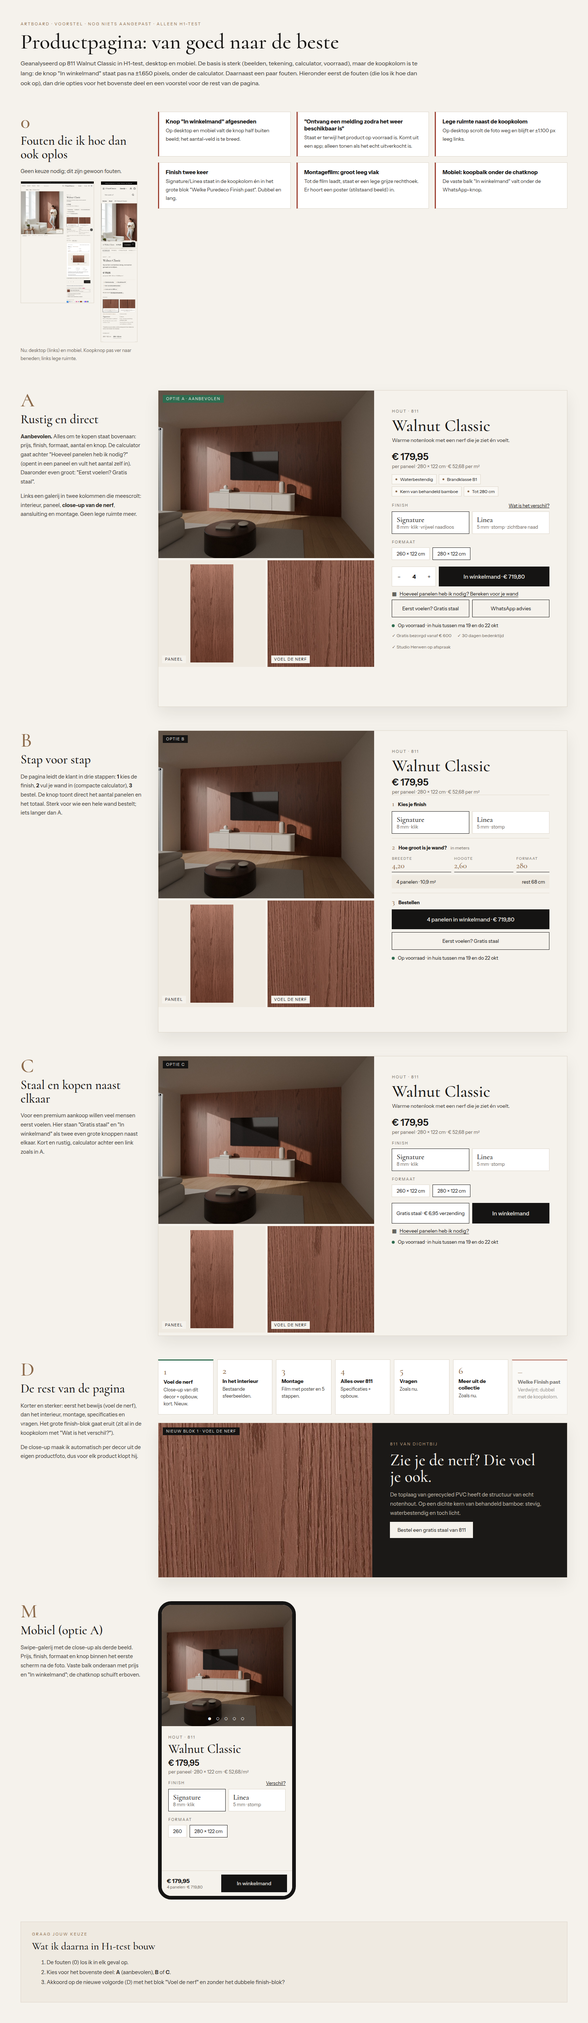
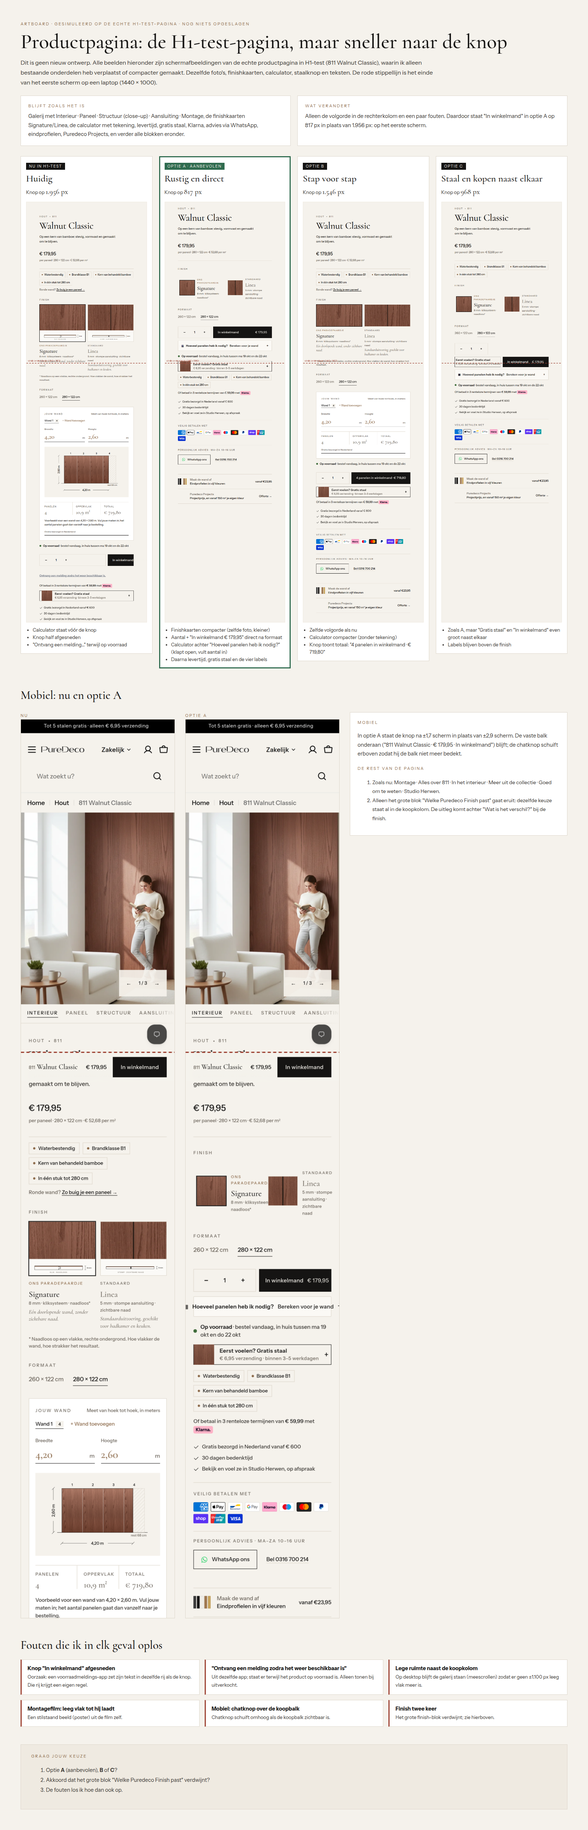
Artboard Productpagina v2 opnieuw: gesimuleerd op de echte H1-test-pagina (nu, A, B, C, mobiel)
Claude-Session: https://claude.ai/code/session_01Tr9HDAqx5rbsuHBhnEqEEG

diff --git a/docs/ontwerp-puredeco-finish/ProductpaginaV2.html b/docs/ontwerp-puredeco-finish/ProductpaginaV2.html
@@ -4,168 +4,62 @@
 *{box-sizing:border-box}body{margin:0;background:#DCD5CA;font-family:'Instrument Sans',Arial,sans-serif;color:#151413}
 .board{width:1600px;margin:0 auto;padding:56px;background:#F5F2EC}
 .k{font-size:11px;letter-spacing:.22em;text-transform:uppercase;color:#8C6A4A;margin:0}
-h1{font-family:Cormorant,Georgia,serif;font-weight:500;font-size:58px;line-height:1;margin:10px 0 0}
-h2{font-family:Cormorant,Georgia,serif;font-weight:500;font-size:34px;line-height:1.08;margin:8px 0 10px}
+h1{font-family:Cormorant,Georgia,serif;font-weight:500;font-size:56px;line-height:1;margin:10px 0 0}
+h2{font-family:Cormorant,Georgia,serif;font-weight:500;font-size:32px;line-height:1.08;margin:6px 0 8px}
 p,li{font-size:14.5px;line-height:1.7;color:#3A3733}
-.s{font-family:Cormorant,Georgia,serif;font-weight:500}
-.sec{margin-top:64px;display:grid;grid-template-columns:330px 1fr;gap:44px;align-items:start}
-.num{font-family:Cormorant,Georgia,serif;font-size:54px;color:#8C6A4A;line-height:1}
-.frame{background:#F5F2EC;border:1px solid #DDD6CA;box-shadow:0 18px 40px rgba(21,20,19,.08);position:relative;overflow:hidden}
-.tag{position:absolute;top:12px;left:12px;background:#151413;color:#F5F2EC;font-size:10.5px;letter-spacing:.14em;text-transform:uppercase;padding:4px 9px;z-index:3}
-.tag.rec{background:#2F6B4F}
-.bugs{display:grid;grid-template-columns:repeat(3,1fr);gap:16px}
-.bug{background:#fff;border:1px solid #DDD6CA;border-left:3px solid #9B3D2E;padding:16px 18px}
-.bug b{display:block;font-size:15px;margin-bottom:4px}.bug p{margin:0;font-size:13.5px}
-.now{display:flex;gap:18px;align-items:flex-start}.now img{border:1px solid #DDD6CA;display:block}
-.now .note{font-size:13px;color:#6E675E;max-width:260px}
-/* pdp mock */
-.pdp{display:grid;grid-template-columns:1.12fr 1fr;min-height:860px;background:#F5F2EC}
-.gal{display:grid;grid-template-columns:1fr 1fr;gap:6px;align-content:start;padding:0}
-.gal .big{grid-column:1/-1;aspect-ratio:4/3.1;background:url('../visualisaties/woonkamer.jpg') 38% center/cover}
-.gal .t{aspect-ratio:1/1;position:relative;background:#E9E3D8}
-.gal .t span{position:absolute;left:10px;bottom:10px;background:#F5F2EC;font-size:10.5px;letter-spacing:.12em;text-transform:uppercase;padding:4px 8px}
-.t.panel{background:#EFEAE1 url('pdp2/paneel-811.jpg') center/auto 92% no-repeat}
-.t.close{background:url('waarom/close-811.jpg') center/cover}
-.buy{padding:44px 48px 30px}
-.buy .k2{font-size:11px;letter-spacing:.2em;text-transform:uppercase;color:#6E675E}
-.buy h3{font-family:Cormorant,Georgia,serif;font-weight:500;font-size:46px;line-height:1;margin:8px 0 6px}
-.buy .sub{font-size:14px;color:#3A3733;margin:0 0 16px}
-.price{font-size:26px;font-weight:600}.price small{display:block;font-size:13px;font-weight:400;color:#6E675E;margin-top:2px}
-.chips{display:flex;flex-wrap:wrap;gap:6px;margin:14px 0 18px}.chips span{border:1px solid #DDD6CA;background:#FBF9F5;padding:5px 9px;font-size:12px}
-.chips span:before{content:'';display:inline-block;width:5px;height:5px;border-radius:50%;background:#8C6A4A;margin-right:7px;vertical-align:2px}
-.lbl{font-size:10.5px;letter-spacing:.18em;text-transform:uppercase;color:#6E675E;margin:16px 0 8px;display:flex;justify-content:space-between}
-.lbl a{letter-spacing:0;text-transform:none;font-size:12.5px;color:#151413;text-decoration:underline}
-.fin{display:grid;grid-template-columns:1fr 1fr;gap:8px}
-.fin div{border:1px solid #DDD6CA;padding:10px 12px;background:#fff;font-size:12.5px;color:#6E675E}
-.fin div b{display:block;font-family:Cormorant,Georgia,serif;font-weight:500;font-size:20px;color:#151413}
-.fin div.on{border:1.5px solid #151413}
-.pills{display:flex;gap:8px}.pills span{border:1px solid #DDD6CA;padding:8px 12px;font-size:13px;background:#fff}.pills span.on{border:1.5px solid #151413}
-.cta{display:grid;grid-template-columns:120px 1fr;gap:8px;margin-top:18px}
-.qty{border:1px solid #DDD6CA;display:flex;align-items:center;justify-content:space-between;padding:0 14px;height:54px;font-size:15px;background:#fff}
-.atc{background:#151413;color:#F5F2EC;height:54px;display:flex;align-items:center;justify-content:center;font-size:15px;font-weight:500}
-.atc.wide{grid-column:1/-1}
-.sec2{display:grid;grid-template-columns:1fr 1fr;gap:8px;margin-top:8px}
-.ghost{border:1px solid #151413;height:48px;display:flex;align-items:center;justify-content:center;font-size:13.5px;gap:8px;background:#F5F2EC}
-.calc{font-size:13.5px;margin-top:12px;display:flex;align-items:center;gap:8px}.calc u{text-underline-offset:3px}
-.stock{font-size:13px;margin-top:14px}.stock:before{content:'';display:inline-block;width:8px;height:8px;border-radius:50%;background:#2F6B4F;margin-right:8px}
-.trust{display:flex;gap:16px;font-size:12px;color:#6E675E;margin-top:12px;flex-wrap:wrap}
-.steps{counter-reset:s;margin-top:10px}
-.step{border-top:1px solid #E2DBCF;padding:12px 0}
-.step .h{display:flex;gap:10px;align-items:baseline;font-size:13px}
-.step .h i{font-style:normal;font-family:Cormorant,Georgia,serif;font-size:20px;color:#8C6A4A}
-.mini{display:grid;grid-template-columns:1fr 1fr 90px;gap:8px;margin-top:8px}
-.mini div{border-bottom:1px solid #151413;padding:4px 0;font-family:Cormorant,Georgia,serif;font-size:22px;color:#8C6A4A}
-.mini div small{display:block;font-family:'Instrument Sans';font-size:10px;letter-spacing:.14em;text-transform:uppercase;color:#6E675E}
-.res{background:#EFEAE1;padding:10px 12px;font-size:13px;margin-top:8px;display:flex;justify-content:space-between}
-.two{display:grid;grid-template-columns:1fr 1fr;gap:8px;margin-top:16px}
-.two .atc,.two .ghost{height:56px}
-/* page order */
-.order{display:grid;grid-template-columns:repeat(7,1fr);gap:10px}
-.ob{background:#fff;border:1px solid #DDD6CA;padding:14px 14px 12px;min-height:150px}
-.ob .n{font-family:Cormorant,Georgia,serif;font-size:26px;color:#8C6A4A}
-.ob b{display:block;font-size:14px;margin:4px 0}.ob p{font-size:12.5px;margin:0;line-height:1.5}
-.ob.new{border-top:3px solid #2F6B4F}.ob.out{opacity:.55;border-top:3px solid #9B3D2E}
-.nerf{display:grid;grid-template-columns:1.1fr 1fr;background:#1B1917;color:#F5F2EC;min-height:420px}
-.nerf .img{background:url('waarom/close-811.jpg') center/cover}
-.nerf .tx{padding:48px}
-.nerf h4{font-family:Cormorant,Georgia,serif;font-weight:500;font-size:44px;line-height:1.02;margin:12px 0}
-.nerf p{color:#CFC6B8}
-/* mobile */
-.phone{width:375px;border:10px solid #151413;border-radius:36px;overflow:hidden;background:#F5F2EC;position:relative;height:812px}
-.phone .ph{height:330px;background:url('../visualisaties/woonkamer.jpg') 40% center/cover;position:relative}
-.phone .dots{position:absolute;bottom:10px;left:0;right:0;text-align:center;font-size:18px;color:#fff;letter-spacing:4px}
-.phone .b{padding:18px 18px}
-.phone h3{font-family:Cormorant,Georgia,serif;font-weight:500;font-size:34px;margin:4px 0}
-.phone .bar{position:absolute;left:0;right:0;bottom:0;background:#F5F2EC;border-top:1px solid #DDD6CA;padding:10px 14px;display:grid;grid-template-columns:1fr 1.3fr;gap:10px;align-items:center}
-.phone .bar b{font-size:16px}.phone .bar small{display:block;font-size:11px;color:#6E675E}
-.ask{margin-top:60px;padding:24px 30px;background:#EFEAE1;border:1px solid #DDD6CA}
-.ask li{font-size:14.5px;line-height:1.85}
+.lead{max-width:1150px;font-size:16px}
+.cols{display:grid;grid-template-columns:repeat(4,1fr);gap:18px;margin-top:28px;align-items:start}
+.col{background:#fff;border:1px solid #DDD6CA;padding:14px}
+.col.rec{outline:3px solid #2F6B4F;outline-offset:-3px}
+.col h3{font-family:Cormorant,Georgia,serif;font-weight:500;font-size:26px;margin:0}
+.col .y{font-size:13px;margin:4px 0 10px}.col .y b{font-size:20px;font-family:Cormorant,Georgia,serif;font-weight:500}
+.col img{display:block;width:100%;border:1px solid #EFEAE1}
+.col ul{margin:10px 0 0;padding-left:18px}.col li{font-size:13px;line-height:1.55}
+.badge{display:inline-block;font-size:10.5px;letter-spacing:.14em;text-transform:uppercase;padding:3px 8px;background:#151413;color:#F5F2EC;margin-bottom:8px}
+.badge.g{background:#2F6B4F}
+.bugs{display:grid;grid-template-columns:repeat(3,1fr);gap:14px;margin-top:22px}
+.bug{background:#fff;border:1px solid #DDD6CA;border-left:3px solid #9B3D2E;padding:14px 16px}
+.bug b{display:block;font-size:14.5px;margin-bottom:3px}.bug p{margin:0;font-size:13px}
+.row{display:grid;grid-template-columns:420px 420px 1fr;gap:28px;margin-top:28px;align-items:start}
+.row img{display:block;width:100%;border:1px solid #DDD6CA}
+.box{background:#fff;border:1px solid #DDD6CA;padding:18px 20px}
+.order li{font-size:14px;line-height:1.75}
+.keep{display:grid;grid-template-columns:1fr 1fr;gap:18px;margin-top:22px}
+.ask{margin-top:48px;padding:22px 28px;background:#EFEAE1;border:1px solid #DDD6CA}.ask li{font-size:14.5px;line-height:1.85}
 </style></head><body><div class="board">
-<p class="k">Artboard · voorstel · nog niets aangepast · alleen H1-test</p>
-<h1>Productpagina: van goed naar de beste</h1>
-<p style="max-width:1100px;font-size:16px">Geanalyseerd op 811 Walnut Classic in H1-test, desktop en mobiel. De basis is sterk (beelden, tekening, calculator, voorraad), maar de koopkolom is te lang: de knop "In winkelmand" staat pas na ±1.650 pixels, onder de calculator. Daarnaast een paar fouten. Hieronder eerst de fouten (die los ik hoe dan ook op), dan drie opties voor het bovenste deel en een voorstel voor de rest van de pagina.</p>
+<p class="k">Artboard · gesimuleerd op de echte H1-test-pagina · nog niets opgeslagen</p>
+<h1>Productpagina: de H1-test-pagina, maar sneller naar de knop</h1>
+<p class="lead">Dit is geen nieuw ontwerp. Alle beelden hieronder zijn schermafbeeldingen van de echte productpagina in H1-test (811 Walnut Classic), waarin ik alleen bestaande onderdelen heb verplaatst of compacter gemaakt. Dezelfde foto's, finishkaarten, calculator, staalknop en teksten. De rode stippellijn is het einde van het eerste scherm op een laptop (1440 × 1000).</p>
 
-<section class="sec"><div><div class="num">0</div><h2>Fouten die ik hoe dan ook oplos</h2><p>Geen keuze nodig; dit zijn gewoon fouten.</p>
- <div class="now"><img src="pdp2/nu-desktop.png" width="200"><img src="pdp2/nu-mobiel.png" width="100"></div><p class="note" style="font-size:12.5px;color:#6E675E">Nu: desktop (links) en mobiel. Koopknop pas ver naar beneden; links lege ruimte.</p></div>
- <div class="bugs">
-  <div class="bug"><b>Knop "In winkelmand" afgesneden</b><p>Op desktop en mobiel valt de knop half buiten beeld; het aantal-veld is te breed.</p></div>
-  <div class="bug"><b>"Ontvang een melding zodra het weer beschikbaar is"</b><p>Staat er terwijl het product op voorraad is. Komt uit een app; alleen tonen als het echt uitverkocht is.</p></div>
-  <div class="bug"><b>Lege ruimte naast de koopkolom</b><p>Op desktop scrolt de foto weg en blijft er ±1.100 px leeg links.</p></div>
-  <div class="bug"><b>Finish twee keer</b><p>Signature/Linea staat in de koopkolom én in het grote blok "Welke Puredeco Finish past". Dubbel en lang.</p></div>
-  <div class="bug"><b>Montagefilm: groot leeg vlak</b><p>Tot de film laadt, staat er een lege grijze rechthoek. Er hoort een poster (stilstaand beeld) in.</p></div>
-  <div class="bug"><b>Mobiel: koopbalk onder de chatknop</b><p>De vaste balk "In winkelmand" valt onder de WhatsApp-knop.</p></div>
- </div>
-</section>
+<div class="keep">
+ <div class="box"><p class="k">Blijft zoals het is</p><p style="margin:6px 0 0">Galerij met Interieur · Paneel · Structuur (close-up) · Aansluiting · Montage, de finishkaarten Signature/Linea, de calculator met tekening, levertijd, gratis staal, Klarna, advies via WhatsApp, eindprofielen, Puredeco Projects, en verder alle blokken eronder.</p></div>
+ <div class="box"><p class="k">Wat verandert</p><p style="margin:6px 0 0">Alleen de volgorde in de rechterkolom en een paar fouten. Daardoor staat "In winkelmand" in optie A op 817 px in plaats van 1.956 px: op het eerste scherm.</p></div>
+</div>
 
-<section class="sec"><div><div class="num">A</div><h2>Rustig en direct</h2><p><b>Aanbevolen.</b> Alles om te kopen staat bovenaan: prijs, finish, formaat, aantal en knop. De calculator gaat achter "Hoeveel panelen heb ik nodig?" (opent in een paneel en vult het aantal zelf in). Daaronder even groot: "Eerst voelen? Gratis staal".</p><p>Links een galerij in twee kolommen die meescrolt: interieur, paneel, <b>close-up van de nerf</b>, aansluiting en montage. Geen lege ruimte meer.</p></div>
- <div class="frame"><span class="tag rec">Optie A · aanbevolen</span><div class="pdp">
-  <div class="gal"><div class="big"></div><div class="t panel"><span>Paneel</span></div><div class="t close"><span>Voel de nerf</span></div></div>
-  <div class="buy"><span class="k2">Hout · 811</span><h3>Walnut Classic</h3><p class="sub">Warme notenlook met een nerf die je ziet én voelt.</p>
-   <div class="price">€ 179,95<small>per paneel · 280 × 122 cm · € 52,68 per m²</small></div>
-   <div class="chips"><span>Waterbestendig</span><span>Brandklasse B1</span><span>Kern van behandeld bamboe</span><span>Tot 280 cm</span></div>
-   <div class="lbl">Finish <a>Wat is het verschil?</a></div>
-   <div class="fin"><div class="on"><b>Signature</b>8 mm · klik · vrijwel naadloos</div><div><b>Linea</b>5 mm · stomp · zichtbare naad</div></div>
-   <div class="lbl">Formaat</div><div class="pills"><span>260 × 122 cm</span><span class="on">280 × 122 cm</span></div>
-   <div class="cta"><div class="qty">–<b>4</b>+</div><div class="atc">In winkelmand · € 719,80</div></div>
-   <div class="calc">▦ <u>Hoeveel panelen heb ik nodig? Bereken voor je wand</u></div>
-   <div class="sec2"><div class="ghost">Eerst voelen? Gratis staal</div><div class="ghost">WhatsApp advies</div></div>
-   <div class="stock">Op voorraad · in huis tussen ma 19 en do 22 okt</div>
-   <div class="trust"><span>✓ Gratis bezorgd vanaf € 600</span><span>✓ 30 dagen bedenktijd</span><span>✓ Studio Herwen op afspraak</span></div>
-  </div></div></div>
-</section>
+<div class="cols">
+ <div class="col"><span class="badge">Nu in H1-test</span><h3>Huidig</h3><p class="y">Knop op <b>1.956 px</b></p><img src="pdp2/col-nu.png"><ul><li>Calculator staat vóór de knop</li><li>Knop half afgesneden</li><li>"Ontvang een melding…" terwijl op voorraad</li></ul></div>
+ <div class="col rec"><span class="badge g">Optie A · aanbevolen</span><h3>Rustig en direct</h3><p class="y">Knop op <b>817 px</b></p><img src="pdp2/col-A.png"><ul><li>Finishkaarten compacter (zelfde foto, kleiner)</li><li>Aantal + "In winkelmand € 179,95" direct na formaat</li><li>Calculator achter "Hoeveel panelen heb ik nodig?" (klapt open, vult aantal in)</li><li>Daarna levertijd, gratis staal en de vier labels</li></ul></div>
+ <div class="col"><span class="badge">Optie B</span><h3>Stap voor stap</h3><p class="y">Knop op <b>1.546 px</b></p><img src="pdp2/col-B.png"><ul><li>Zelfde volgorde als nu</li><li>Calculator compacter (zonder tekening)</li><li>Knop toont totaal: "4 panelen in winkelmand · € 719,80"</li></ul></div>
+ <div class="col"><span class="badge">Optie C</span><h3>Staal en kopen naast elkaar</h3><p class="y">Knop op <b>968 px</b></p><img src="pdp2/col-C.png"><ul><li>Zoals A, maar "Gratis staal" en "In winkelmand" even groot naast elkaar</li><li>Labels blijven boven de finish</li></ul></div>
+</div>
 
-<section class="sec"><div><div class="num">B</div><h2>Stap voor stap</h2><p>De pagina leidt de klant in drie stappen: <b>1</b> kies de finish, <b>2</b> vul je wand in (compacte calculator), <b>3</b> bestel. De knop toont direct het aantal panelen en het totaal. Sterk voor wie een hele wand bestelt; iets langer dan A.</p></div>
- <div class="frame"><span class="tag">Optie B</span><div class="pdp" style="min-height:820px">
-  <div class="gal"><div class="big"></div><div class="t panel"><span>Paneel</span></div><div class="t close"><span>Voel de nerf</span></div></div>
-  <div class="buy"><span class="k2">Hout · 811</span><h3>Walnut Classic</h3>
-   <div class="price">€ 179,95<small>per paneel · 280 × 122 cm · € 52,68 per m²</small></div>
-   <div class="step"><div class="h"><i>1</i><b>Kies je finish</b></div><div class="fin" style="margin-top:8px"><div class="on"><b>Signature</b>8 mm · klik</div><div><b>Linea</b>5 mm · stomp</div></div></div>
-   <div class="step"><div class="h"><i>2</i><b>Hoe groot is je wand?</b><span style="color:#6E675E;font-size:12px">in meters</span></div>
-    <div class="mini"><div><small>Breedte</small>4,20</div><div><small>Hoogte</small>2,60</div><div><small>Formaat</small>280</div></div>
-    <div class="res"><span>4 panelen · 10,9 m²</span><span>rest 68 cm</span></div></div>
-   <div class="step"><div class="h"><i>3</i><b>Bestellen</b></div><div class="atc" style="margin-top:8px">4 panelen in winkelmand · € 719,80</div>
-    <div class="ghost" style="margin-top:8px">Eerst voelen? Gratis staal</div><div class="stock">Op voorraad · in huis tussen ma 19 en do 22 okt</div></div>
-  </div></div></div>
-</section>
+<h2 style="margin-top:56px">Mobiel: nu en optie A</h2>
+<div class="row">
+ <div><p class="k">Nu</p><img src="pdp2/mob-nu.png"></div>
+ <div><p class="k">Optie A</p><img src="pdp2/mob-A.png"></div>
+ <div class="box"><p class="k">Mobiel</p><p>In optie A staat de knop na ±1,7 scherm in plaats van ±2,9 scherm. De vaste balk onderaan ("811 Walnut Classic · € 179,95 · In winkelmand") blijft; de chatknop schuift erboven zodat hij de balk niet meer bedekt.</p>
+ <p class="k" style="margin-top:18px">De rest van de pagina</p><ol class="order"><li>Zoals nu: Montage · Alles over 811 · In het interieur · Meer uit de collectie · Goed om te weten · Studio Herwen.</li><li>Alleen het grote blok "Welke Puredeco Finish past" gaat eruit: dezelfde keuze staat al in de koopkolom. De uitleg komt achter "Wat is het verschil?" bij de finish.</li></ol></div>
+</div>
 
-<section class="sec"><div><div class="num">C</div><h2>Staal en kopen naast elkaar</h2><p>Voor een premium aankoop willen veel mensen eerst voelen. Hier staan "Gratis staal" en "In winkelmand" als twee even grote knoppen naast elkaar. Kort en rustig, calculator achter een link zoals in A.</p></div>
- <div class="frame"><span class="tag">Optie C</span><div class="pdp" style="min-height:760px">
-  <div class="gal"><div class="big"></div><div class="t panel"><span>Paneel</span></div><div class="t close"><span>Voel de nerf</span></div></div>
-  <div class="buy"><span class="k2">Hout · 811</span><h3>Walnut Classic</h3><p class="sub">Warme notenlook met een nerf die je ziet én voelt.</p>
-   <div class="price">€ 179,95<small>per paneel · 280 × 122 cm · € 52,68 per m²</small></div>
-   <div class="lbl">Finish</div><div class="fin"><div class="on"><b>Signature</b>8 mm · klik</div><div><b>Linea</b>5 mm · stomp</div></div>
-   <div class="lbl">Formaat</div><div class="pills"><span>260 × 122 cm</span><span class="on">280 × 122 cm</span></div>
-   <div class="two"><div class="ghost" style="background:#fff">Gratis staal · € 6,95 verzending</div><div class="atc">In winkelmand</div></div>
-   <div class="calc">▦ <u>Hoeveel panelen heb ik nodig?</u></div>
-   <div class="stock">Op voorraad · in huis tussen ma 19 en do 22 okt</div>
-  </div></div></div>
-</section>
+<h2 style="margin-top:56px">Fouten die ik in elk geval oplos</h2>
+<div class="bugs">
+ <div class="bug"><b>Knop "In winkelmand" afgesneden</b><p>Oorzaak: een voorraadmeldings-app zet zijn tekst in dezelfde rij als de knop. Die rij krijgt een eigen regel.</p></div>
+ <div class="bug"><b>"Ontvang een melding zodra het weer beschikbaar is"</b><p>Uit dezelfde app; staat er terwijl het product op voorraad is. Alleen tonen bij uitverkocht.</p></div>
+ <div class="bug"><b>Lege ruimte naast de koopkolom</b><p>Op desktop blijft de galerij staan (meescrollen) zodat er geen ±1.100 px leeg vlak meer is.</p></div>
+ <div class="bug"><b>Montagefilm: leeg vlak tot hij laadt</b><p>Een stilstaand beeld (poster) uit de film zelf.</p></div>
+ <div class="bug"><b>Mobiel: chatknop over de koopbalk</b><p>Chatknop schuift omhoog als de koopbalk zichtbaar is.</p></div>
+ <div class="bug"><b>Finish twee keer</b><p>Het grote finish-blok verdwijnt; zie hierboven.</p></div>
+</div>
 
-<section class="sec"><div><div class="num">D</div><h2>De rest van de pagina</h2><p>Korter en sterker: eerst het bewijs (voel de nerf), dan het interieur, montage, specificaties en vragen. Het grote finish-blok gaat eruit (zit al in de koopkolom met "Wat is het verschil?").</p><p>De close-up maak ik automatisch per decor uit de eigen productfoto, dus voor elk product klopt hij.</p></div>
- <div><div class="order">
-  <div class="ob new"><span class="n">1</span><b>Voel de nerf</b><p>Close-up van dít decor + opbouw, kort. Nieuw.</p></div>
-  <div class="ob"><span class="n">2</span><b>In het interieur</b><p>Bestaande sfeerbeelden.</p></div>
-  <div class="ob"><span class="n">3</span><b>Montage</b><p>Film met poster en 5 stappen.</p></div>
-  <div class="ob"><span class="n">4</span><b>Alles over 811</b><p>Specificaties + opbouw.</p></div>
-  <div class="ob"><span class="n">5</span><b>Vragen</b><p>Zoals nu.</p></div>
-  <div class="ob"><span class="n">6</span><b>Meer uit de collectie</b><p>Zoals nu.</p></div>
-  <div class="ob out"><span class="n">–</span><b>Welke Finish past</b><p>Verdwijnt: dubbel met de koopkolom.</p></div>
- </div>
- <div class="frame" style="margin-top:22px"><span class="tag">Nieuw blok 1 · Voel de nerf</span><div class="nerf"><div class="img"></div><div class="tx"><p class="k" style="color:#C7A988">811 van dichtbij</p><h4>Zie je de nerf? Die voel je ook.</h4><p>De toplaag van gerecycled PVC heeft de structuur van echt notenhout. Op een dichte kern van behandeld bamboe: stevig, waterbestendig en toch licht.</p><p style="margin-top:22px"><span style="background:#F5F2EC;color:#151413;padding:13px 20px;font-size:14px">Bestel een gratis staal van 811</span></p></div></div></div>
- </div>
-</section>
-
-<section class="sec"><div><div class="num">M</div><h2>Mobiel (optie A)</h2><p>Swipe-galerij met de close-up als derde beeld. Prijs, finish, formaat en knop binnen het eerste scherm na de foto. Vaste balk onderaan met prijs en "In winkelmand"; de chatknop schuift erboven.</p></div>
- <div style="display:flex;gap:30px"><div class="phone"><div class="ph"><div class="dots">● ○ ○ ○ ○</div></div><div class="b"><span class="k2" style="font-size:11px;letter-spacing:.2em;color:#6E675E">HOUT · 811</span><h3>Walnut Classic</h3><div class="price" style="font-size:22px">€ 179,95<small>per paneel · 280 × 122 cm · € 52,68/m²</small></div>
-  <div class="lbl">Finish <a>Verschil?</a></div><div class="fin"><div class="on"><b>Signature</b>8 mm · klik</div><div><b>Linea</b>5 mm · stomp</div></div>
-  <div class="lbl">Formaat</div><div class="pills"><span>260</span><span class="on">280 × 122 cm</span></div></div>
-  <div class="bar"><div><b>€ 179,95</b><small>4 panelen · € 719,80</small></div><div class="atc" style="height:48px;font-size:14px">In winkelmand</div></div></div>
- </div>
-</section>
-
-<div class="ask"><p class="k">Graag jouw keuze</p><h2 style="font-size:28px">Wat ik daarna in H1-test bouw</h2><ol>
-<li>De fouten (0) los ik in elk geval op.</li>
-<li>Kies voor het bovenste deel: <b>A</b> (aanbevolen), <b>B</b> of <b>C</b>.</li>
-<li>Akkoord op de nieuwe volgorde (D) met het blok "Voel de nerf" en zonder het dubbele finish-blok?</li>
-</ol></div>
+<div class="ask"><p class="k">Graag jouw keuze</p><ol><li>Optie <b>A</b> (aanbevolen), <b>B</b> of <b>C</b>?</li><li>Akkoord dat het grote blok "Welke Puredeco Finish past" verdwijnt?</li><li>De fouten los ik hoe dan ook op.</li></ol></div>
 </div></body></html>

diff --git a/tools/render/pdp_simulatie.js b/tools/render/pdp_simulatie.js
@@ -1,0 +1,62 @@
+const { chromium, devices } = require('playwright');
+const fs=require('fs');
+const OPT=process.argv[2]||'nu', DEV=process.argv[3]||'d';
+(async()=>{
+const b=await chromium.launch({channel:'chromium',proxy:{server:process.env.HTTPS_PROXY},args:['--ignore-certificate-errors-spki-list='+fs.readFileSync('spki.txt','utf8').trim()]});
+const c=await b.newContext(DEV==='m'?{...devices['Pixel 5']}:{viewport:{width:1440,height:1000}});
+const p=await c.newPage();
+for(let i=0;i<3;i++){await p.goto('https://puredeco.nl/products/811-hout-walnut-classic?preview_theme_id=194824929546',{waitUntil:'load',timeout:90000});await p.waitForTimeout(3500);if(!(await p.title()).includes('Just a moment'))break;await p.waitForTimeout(15000);}
+await p.evaluate((OPT)=>{
+ document.querySelectorAll('#shopify-pc__banner,#PBarNextFrameWrapper').forEach(x=>x.remove());
+ if(OPT==='nu') return;
+ const css=document.createElement('style'); css.textContent=`
+  .pdh__buy{grid-template-columns:auto minmax(0,1fr)!important}
+  .pdh__buy .rez-mixed-stock-subtext-wrapper,.pdh__buy .rez-button-wrapper{display:none!important}
+  .pdh__cta{min-width:0}
+  @media(min-width:990px){.pdh__media{position:sticky;top:96px;align-self:start}}
+  .pdh__finish-swatch{height:110px!important;overflow:hidden}
+  .sim-calc{display:flex;align-items:center;gap:10px;width:100%;margin:12px 0 0;padding:14px 16px;border:1px solid #DDD6CA;background:#FBF9F5;font:inherit;font-size:14px;color:#151413;text-align:left;cursor:pointer}
+  .sim-calc b{font-weight:600}.sim-calc span{margin-left:auto;font-size:18px}
+  .sim-two{display:grid;grid-template-columns:minmax(0,1fr) minmax(0,1fr);gap:10px;margin-top:10px}.sim-two .pdh-smp{overflow:hidden;width:100%}
+  .pd-choice{display:none!important}
+ `; document.head.appendChild(css);
+ const form=document.querySelector('.pdh__form'), buy=document.querySelector('.pdh__buy'), calc=document.querySelector('.pdc'), stock=document.querySelector('.pdh__stock'), smp=document.querySelector('.pdh-smp'), segs=[...form.querySelectorAll('fieldset.pdh__opt')].find(f=>!f.classList.contains('pdh__opt--finish'));
+ const cta=document.querySelector('.pdh__cta');
+ document.querySelectorAll('.pdh__buy .rez-mixed-stock-subtext-wrapper,.pdh__buy .rez-button-wrapper').forEach(e=>e.style.display='none');
+ document.querySelector('.pdh__qty').style.width='max-content';
+ if(OPT==='A'||OPT==='C'){
+   document.querySelectorAll('.pdh__finish-text *').forEach(e=>{ if(getComputedStyle(e).fontStyle==='italic') e.style.display='none'; });
+   const fn=document.querySelector('.pdh__finish-note'); if(fn) fn.style.display='none';
+   const bend=document.querySelector('.pd-usp-bend'); if(bend) bend.style.display='none';
+   const st2=document.createElement('style'); st2.textContent=`.pdh__finish{display:grid!important;grid-template-columns:76px 1fr;gap:12px;align-items:center;padding:8px!important}
+    .pdh__finish-swatch{height:76px!important;width:76px!important;overflow:hidden;display:block}
+    
+    .pdh__fs-sec{display:none!important} .pdh__fs-face{height:100%!important;aspect-ratio:auto!important;width:100%!important}
+    .pdh__finish-text{padding:0!important}
+    .pdh__head{margin-bottom:0}
+    @media(min-width:990px){.pdh__inner{padding-top:24px!important}}`; document.head.appendChild(st2);
+   const chips=document.querySelector('.pd-usp-chips'); if(chips){ chips.dataset.move='1'; }
+   const after=segs; after.after(buy);
+   const btn=document.createElement('button'); btn.type='button'; btn.className='sim-calc'; btn.innerHTML='▦ <b>Hoeveel panelen heb ik nodig?</b> Bereken voor je wand <span>+</span>';
+   buy.after(btn); btn.after(calc); calc.style.display='none';
+   btn.after(stock); 
+   if(OPT==='A'){ stock.after(smp); const ch=document.querySelector('.pd-usp-chips'); if(ch) smp.after(ch); }
+
+   if(OPT==='C'){ // staal en knop even groot naast elkaar, aantal erboven
+     const two=document.createElement('div'); two.className='sim-two'; buy.after(two); two.appendChild(smp); two.appendChild(cta);
+     smp.style.margin='0'; smp.style.minWidth='0'; cta.style.minWidth='0'; cta.style.height='auto'; buy.style.gridTemplateColumns='max-content';
+   }
+ }
+ if(OPT==='B'){
+   calc.querySelector('.pdc__preview').style.display='none'; calc.querySelector('.pdc__note').style.display='none';
+   if(cta) cta.textContent='4 panelen in winkelmand · € 719,80';
+   buy.after(smp);
+ }
+},OPT);
+await p.waitForTimeout(800);
+const name=`sim-${OPT}-${DEV}.png`;
+if(DEV==='d'){ await p.screenshot({path:name}); await p.setViewportSize({width:1440,height:2400}); await p.waitForTimeout(500); await p.screenshot({path:`sim-${OPT}-d-col.png`,clip:{x:840,y:195,width:600,height:2100}}); }
+else { await p.setViewportSize({width:393,height:851}); await p.screenshot({path:name,fullPage:true}); }
+const ctaInfo=await p.evaluate(()=>{const c=document.querySelector('.pdh__cta');const r=c.getBoundingClientRect();return {y:Math.round(r.top+scrollY),right:Math.round(r.right),vw:innerWidth,w:Math.round(r.width)}});
+console.log(OPT,DEV,JSON.stringify(ctaInfo));
+await b.close();})();
